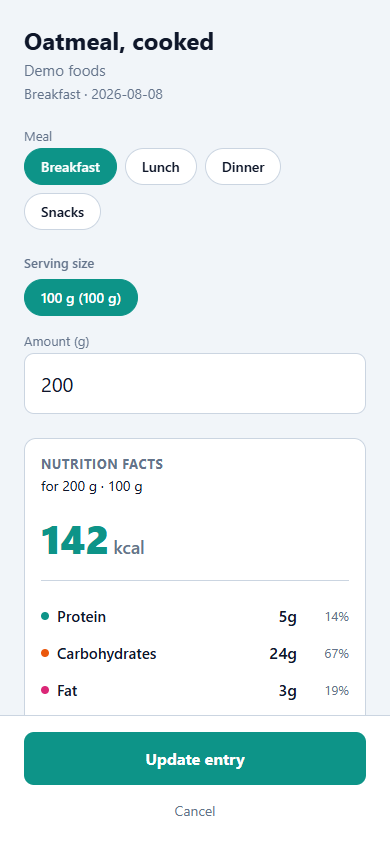
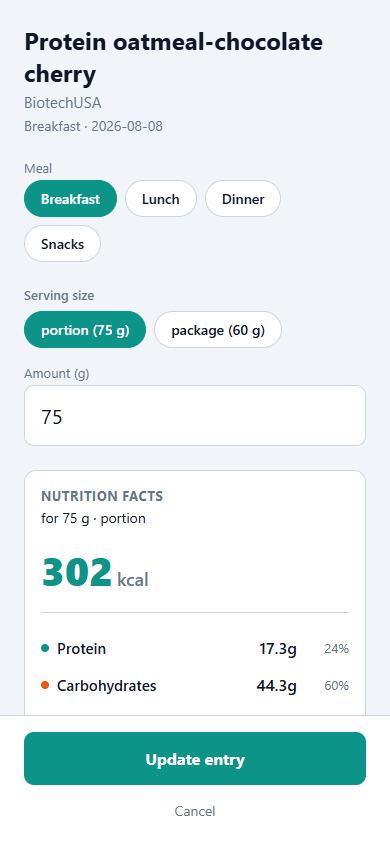
docs(readme): real-account screenshots, drop scan capture

diff --git a/README.md b/README.md
@@ -29,7 +29,7 @@ your account is optional and best-effort. No account needed to try it.
 &nbsp;&nbsp;
 <picture>
   <source media="(prefers-color-scheme: dark)" srcset="./docs/screenshots/search-dark.png">
-  <img alt="Food search with cached results" src="./docs/screenshots/search-light.png" width="190">
+  <img alt="Live YAZIO food search results" src="./docs/screenshots/search-light.png" width="190">
 </picture>
 &nbsp;&nbsp;
 <picture>
@@ -57,15 +57,10 @@ your account is optional and best-effort. No account needed to try it.
 </p>
 
 <p align="center">
-<strong>Settings</strong> · <strong>Barcode scan</strong> · <strong>Login</strong><br><br>
+<strong>Settings</strong> · <strong>Login</strong><br><br>
 <picture>
   <source media="(prefers-color-scheme: dark)" srcset="./docs/screenshots/settings-dark.png">
   <img alt="Goals, units and data management" src="./docs/screenshots/settings-light.png" width="190">
-</picture>
-&nbsp;&nbsp;
-<picture>
-  <source media="(prefers-color-scheme: dark)" srcset="./docs/screenshots/scan-dark.png">
-  <img alt="Barcode scan with web fallback" src="./docs/screenshots/scan-light.png" width="190">
 </picture>
 &nbsp;&nbsp;
 <picture>
